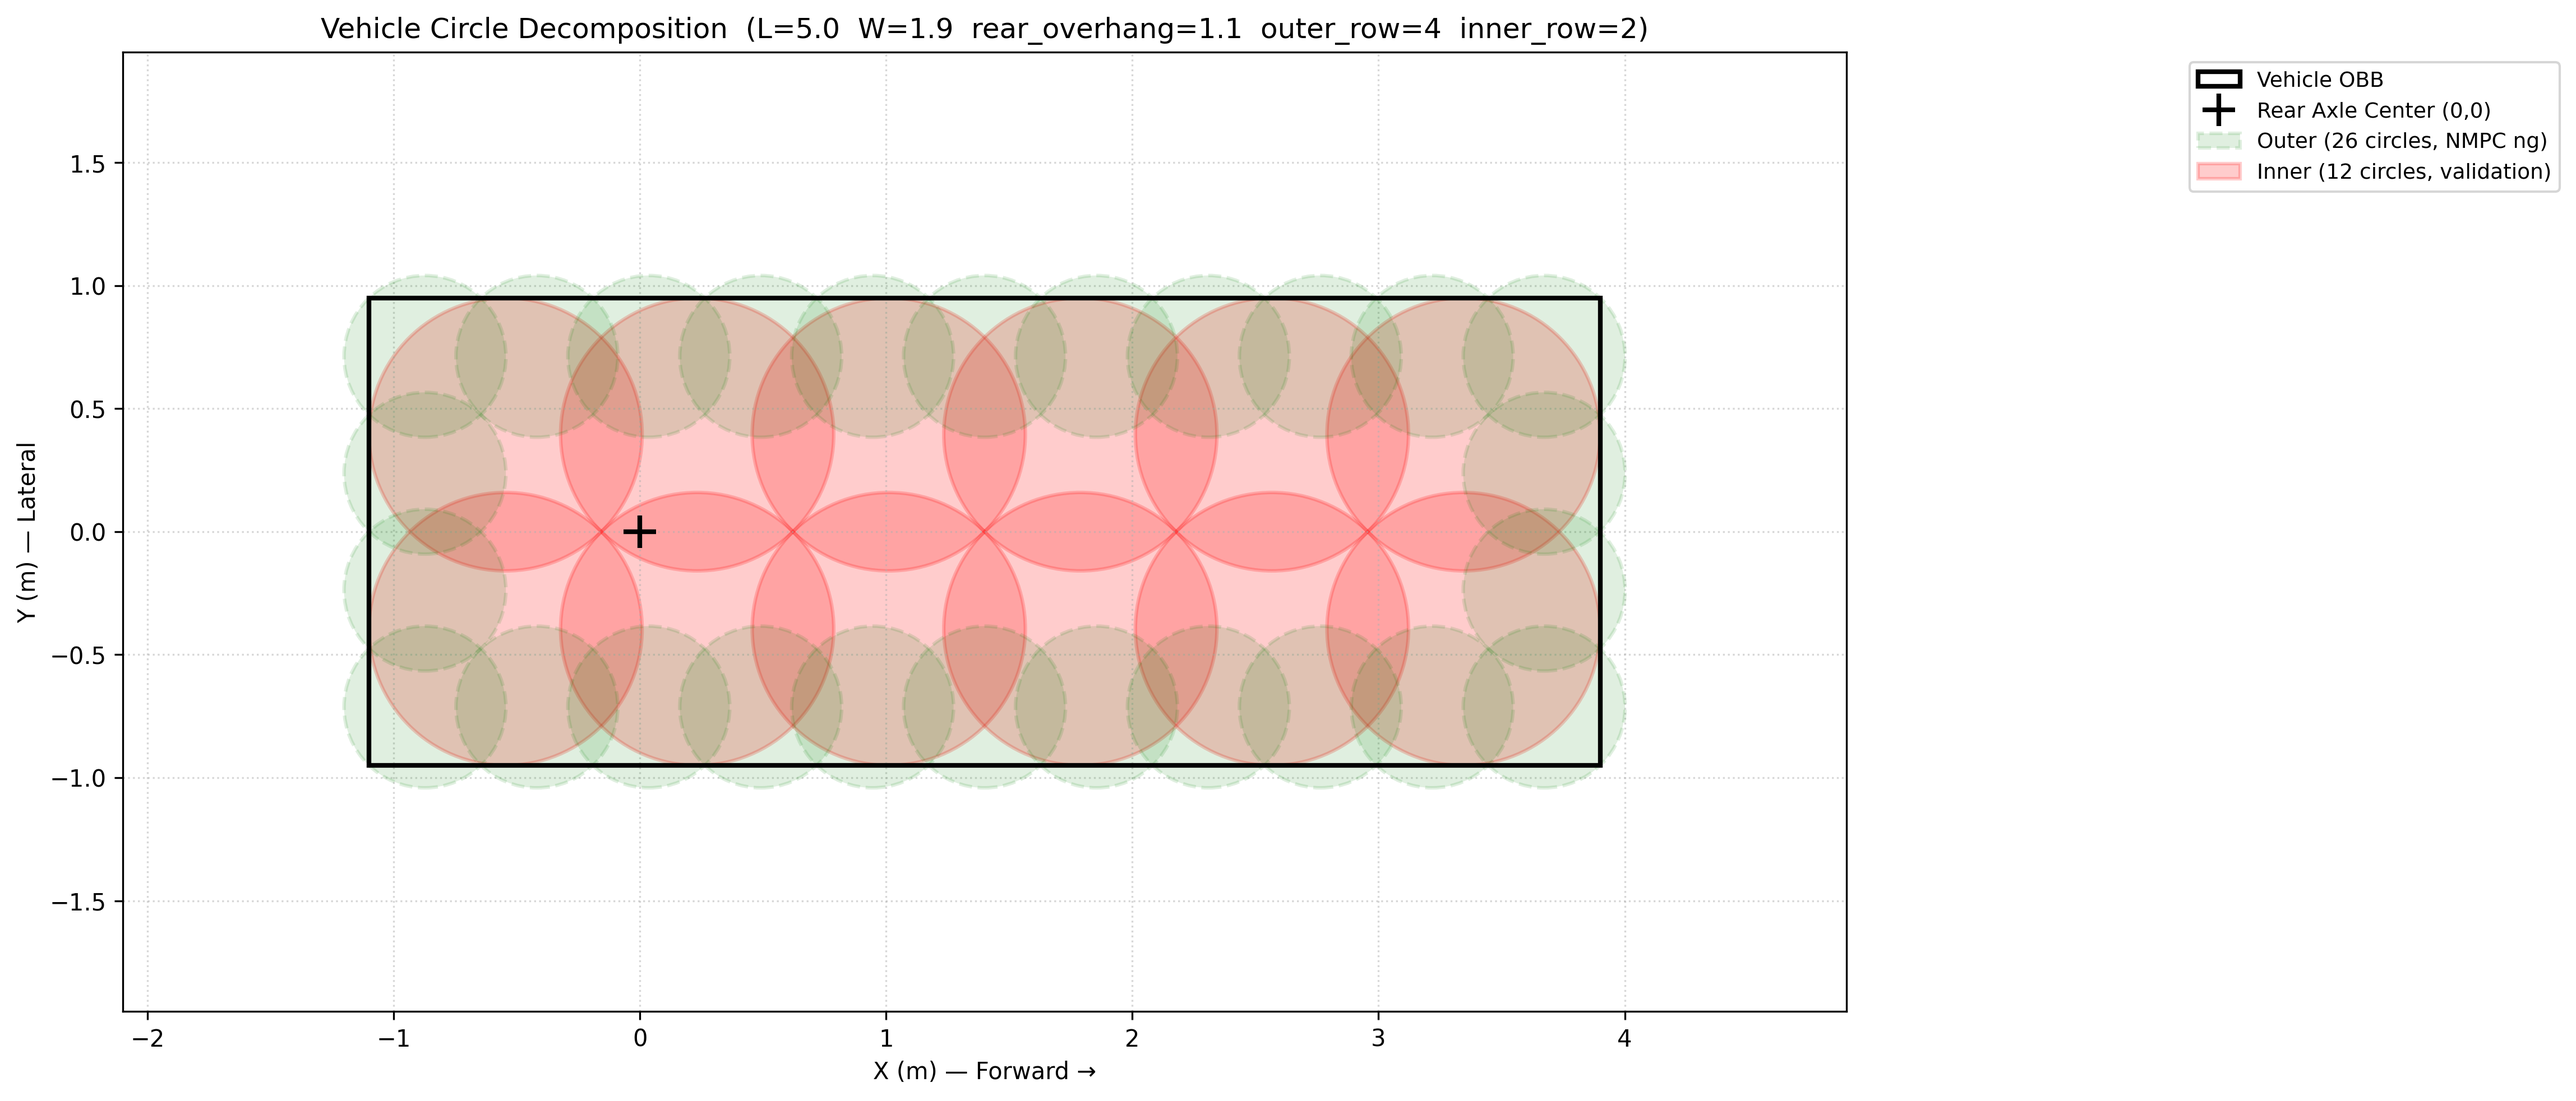
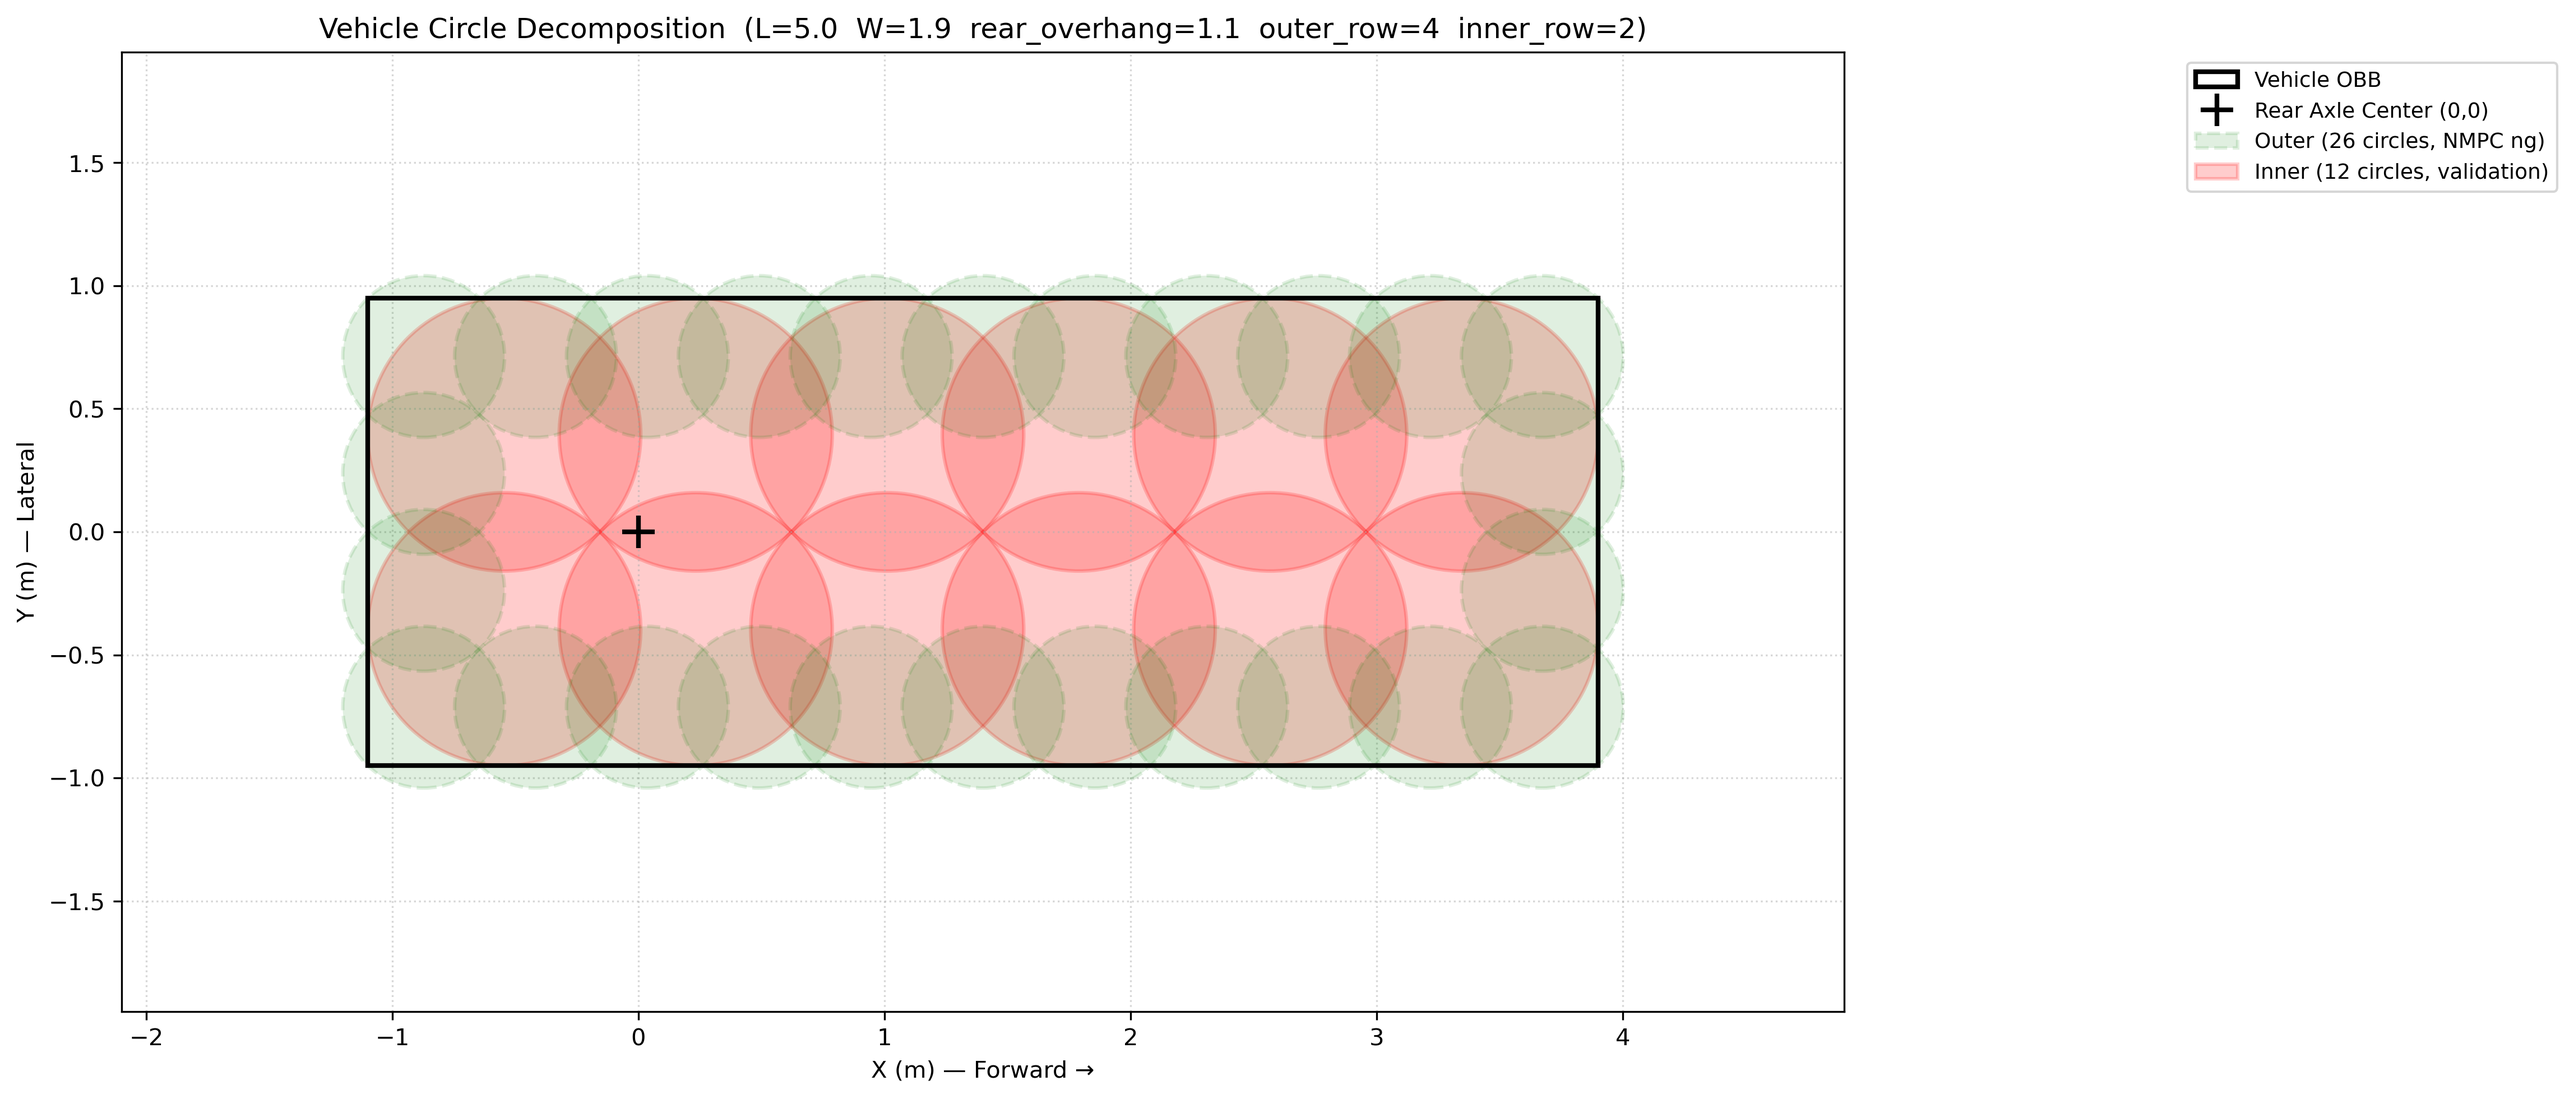
🐳 chore(tool): 优化circle分解展示效果

diff --git a/tool/circle_decomposition.py b/tool/circle_decomposition.py
@@ -18,16 +18,15 @@ class VehicleCircleDecomposition:
 
     def __init__(self):
         # ── 车辆尺寸参数（与 data 文件中的实际参数一致） ──
-        self.vehicle_length = 5.0       # 车长 (m)
-        self.vehicle_width = 1.9        # 车宽 (m)
-        self.wheelbase = 3.0            # 轴距 (m)，仅用于标注后轴位置
-        self.rear_overhang = 1.1        # 后轴到后保险杠距离 (m)
+        self.vehicle_length = 5.0  # 车长 (m)
+        self.vehicle_width = 1.9  # 车宽 (m)
+        self.wheelbase = 3.0  # 轴距 (m)，仅用于标注后轴位置
+        self.rear_overhang = 1.1  # 后轴到后保险杠距离 (m)
 
         # ── 圆分解配置（与 C++ 运行时一致） ──
-        # 注意：VehicleFootprintModel 声明默认 outer_row_num=4，
-        # 但 planning_scene.cpp 构造时显式传入 outer_row_num=2
+        # 见VehicleFootprintModel
         self.inner_row_num = 2
-        self.outer_row_num = 2           # ← 实际运行时为 2
+        self.outer_row_num = 4
 
         # 存储计算结果
         self.inner_circles: list[tuple[float, float, float, str]] = []
@@ -96,7 +95,12 @@ class VehicleCircleDecomposition:
         for j in range(self.outer_row_num):
             for i in range(col_num):
                 # 仅保留边界上的圆（与 C++ 一致）
-                if (i != 0) and (i != col_num - 1) and (j != 0) and (j != self.outer_row_num - 1):
+                if (
+                    (i != 0)
+                    and (i != col_num - 1)
+                    and (j != 0)
+                    and (j != self.outer_row_num - 1)
+                ):
                     continue
                 cx = base_x + i * chord_col
                 cy = base_y - j * chord_row
@@ -152,9 +156,11 @@ class VehicleCircleDecomposition:
         print("=" * 64)
         print("  Outer Circles 超出车辆 OBB 轮廓分析")
         print("=" * 64)
-        print(f"  车辆: {self.vehicle_length:.2f}×{self.vehicle_width:.2f} m, "
-              f"后悬={self.rear_overhang:.2f} m, "
-              f"outer_row_num={self.outer_row_num}")
+        print(
+            f"  车辆: {self.vehicle_length:.2f}×{self.vehicle_width:.2f} m, "
+            f"后悬={self.rear_overhang:.2f} m, "
+            f"outer_row_num={self.outer_row_num}"
+        )
         print(f"  外圆半径 r       = {d['radius']:.5f} m")
         print(f"  网格间距 (dx, dy) = ({d['chord_col']:.3f}, {d['chord_row']:.3f}) m")
         print(f"  列数 (纵向)       = {d['col_num']}")
@@ -162,12 +168,22 @@ class VehicleCircleDecomposition:
         print(f"  外圆总数          = {len(self.outer_circles)}")
         print(f"  内圆总数          = {len(self.inner_circles)}")
         print("-" * 64)
-        print(f"  {'方向':<8} {'OBB 边界 (m)':>14} {'外圆外延 (m)':>14} {'超出量 (m)':>12}")
+        print(
+            f"  {'方向':<8} {'OBB 边界 (m)':>14} {'外圆外延 (m)':>14} {'超出量 (m)':>12}"
+        )
         print("-" * 64)
-        print(f"  {'前方':<8} {d['obb_front']:>14.5f} {d['outer_front']:>14.5f} {d['front']:>+12.5f}")
-        print(f"  {'后方':<8} {d['obb_rear']:>14.5f} {d['outer_rear']:>14.5f} {d['rear']:>+12.5f}")
-        print(f"  {'左侧':<8} {d['obb_left']:>14.5f} {d['outer_left']:>14.5f} {d['left']:>+12.5f}")
-        print(f"  {'右侧':<8} {d['obb_right']:>14.5f} {d['outer_right']:>14.5f} {d['right']:>+12.5f}")
+        print(
+            f"  {'前方':<8} {d['obb_front']:>14.5f} {d['outer_front']:>14.5f} {d['front']:>+12.5f}"
+        )
+        print(
+            f"  {'后方':<8} {d['obb_rear']:>14.5f} {d['outer_rear']:>14.5f} {d['rear']:>+12.5f}"
+        )
+        print(
+            f"  {'左侧':<8} {d['obb_left']:>14.5f} {d['outer_left']:>14.5f} {d['left']:>+12.5f}"
+        )
+        print(
+            f"  {'右侧':<8} {d['obb_right']:>14.5f} {d['outer_right']:>14.5f} {d['right']:>+12.5f}"
+        )
         print("-" * 64)
         if abs(d["front"] - d["rear"]) < 1e-6 and abs(d["left"] - d["right"]) < 1e-6:
             print("  ✓ 前后对称、左右对称")
@@ -196,34 +212,61 @@ class VehicleCircleDecomposition:
         ax.add_patch(car_rect)
 
         # 2. 后轴中心
-        ax.plot(0, 0, "k+", markersize=14, markeredgewidth=2, zorder=10,
-                label="Rear Axle Center (0,0)")
+        ax.plot(
+            0,
+            0,
+            "k+",
+            markersize=14,
+            markeredgewidth=2,
+            zorder=10,
+            label="Rear Axle Center (0,0)",
+        )
 
         # 3. 外圆 (绿色虚线 —— NMPC 碰撞约束用)
         for i, (cx, cy, r, _) in enumerate(self.outer_circles):
-            label = f"Outer ({len(self.outer_circles)} circles, NMPC ng)" if i == 0 else ""
+            label = (
+                f"Outer ({len(self.outer_circles)} circles, NMPC ng)" if i == 0 else ""
+            )
             circle = patches.Circle(
-                (cx, cy), r, color="green", alpha=0.12, ec="green",
-                ls="--", lw=1.5, zorder=2, label=label,
+                (cx, cy),
+                r,
+                color="green",
+                alpha=0.12,
+                ec="green",
+                ls="--",
+                lw=1.5,
+                zorder=2,
+                label=label,
             )
             ax.add_patch(circle)
 
         # 4. 内圆 (红色半透明实线 —— 碰撞检测/验证用)
         for i, (cx, cy, r, _) in enumerate(self.inner_circles):
-            label = f"Inner ({len(self.inner_circles)} circles, validation)" if i == 0 else ""
+            label = (
+                f"Inner ({len(self.inner_circles)} circles, validation)"
+                if i == 0
+                else ""
+            )
             circle = patches.Circle(
-                (cx, cy), r, color="red", alpha=0.20, ec="red",
-                lw=1.5, zorder=1, label=label,
+                (cx, cy),
+                r,
+                color="red",
+                alpha=0.20,
+                ec="red",
+                lw=1.5,
+                zorder=1,
+                label=label,
             )
             ax.add_patch(circle)
 
         # 视图设置
         margin = 1.0
         ax.set_aspect("equal")
-        ax.set_xlim(-self.rear_overhang - margin,
-                     self.vehicle_length - self.rear_overhang + margin)
-        ax.set_ylim(-self.vehicle_width / 2 - margin,
-                     self.vehicle_width / 2 + margin)
+        ax.set_xlim(
+            -self.rear_overhang - margin,
+            self.vehicle_length - self.rear_overhang + margin,
+        )
+        ax.set_ylim(-self.vehicle_width / 2 - margin, self.vehicle_width / 2 + margin)
         ax.set_xlabel("X (m) — Forward →")
         ax.set_ylabel("Y (m) — Lateral")
         ax.set_title(
@@ -237,8 +280,13 @@ class VehicleCircleDecomposition:
         # 去重图例
         handles, labels = ax.get_legend_handles_labels()
         by_label = dict(zip(labels, handles))
-        ax.legend(by_label.values(), by_label.keys(), loc="upper right",
-                  bbox_to_anchor=(1.42, 1), fontsize=9)
+        ax.legend(
+            by_label.values(),
+            by_label.keys(),
+            loc="upper right",
+            bbox_to_anchor=(1.42, 1),
+            fontsize=9,
+        )
 
         ax.grid(True, linestyle=":", alpha=0.5)
         plt.tight_layout()
